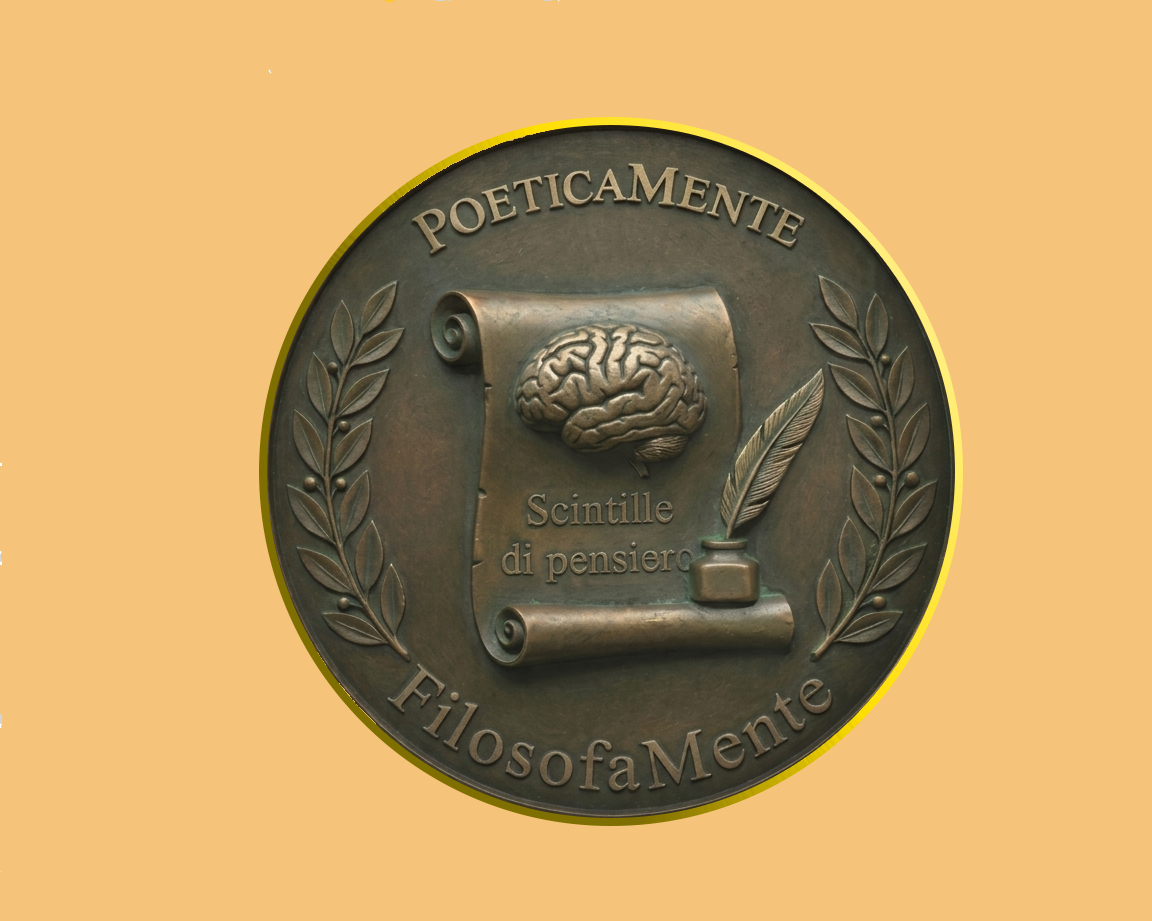
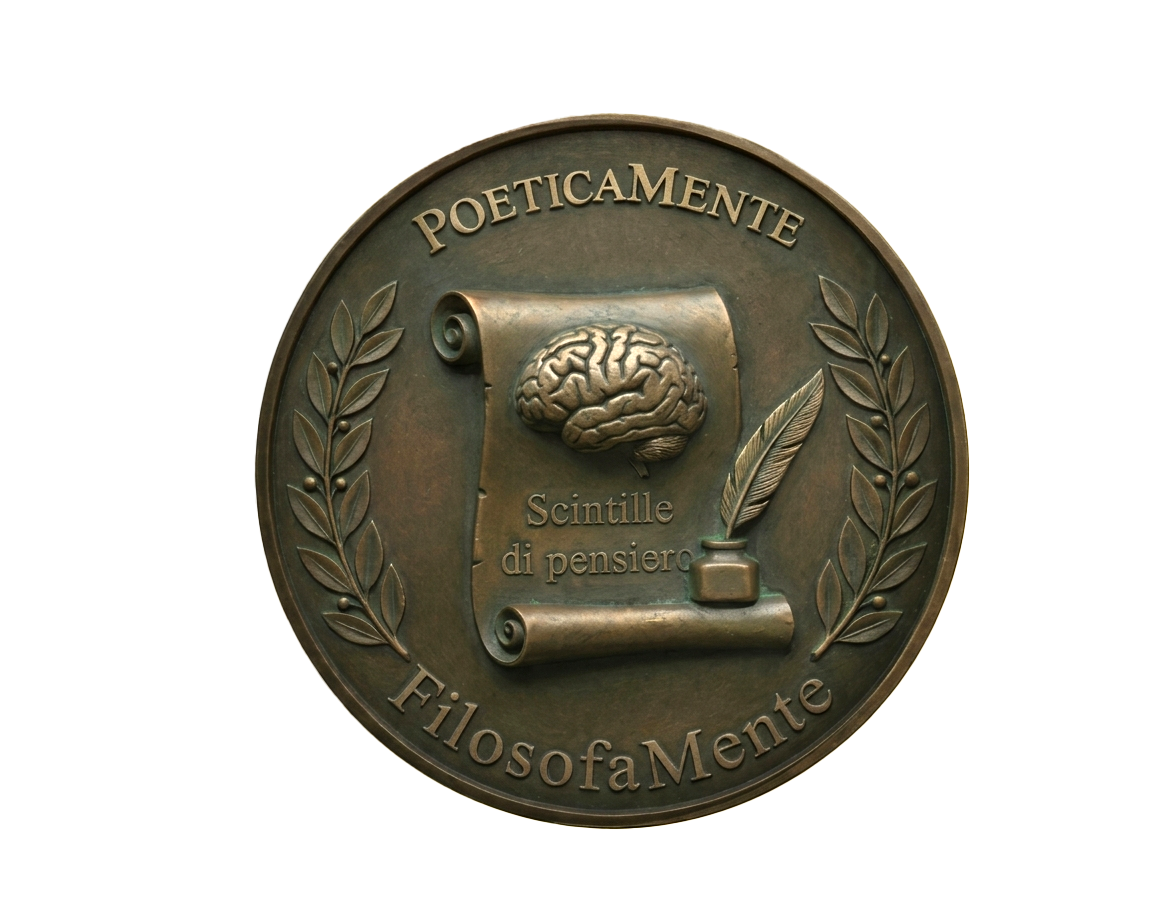
fix: nuove immagini medaglione Fronte e Retro, script video aggiornato

diff --git a/Medaglione_Pro.py b/Medaglione_Pro.py
@@ -2,107 +2,184 @@ import numpy as np
 import cv2
 import os
 import sys
-import time
+
 # La nuova sintassi per MoviePy 2.x
 from moviepy import VideoFileClip, AudioFileClip
 
-# === CONFIGURAZIONE ORIGINALE ===
+# === CONFIGURAZIONE ===
 ASSETS_DIR = "assets"
-image_fronte_path = os.path.join(ASSETS_DIR, "Fronte.png") 
-image_retro_path = os.path.join(ASSETS_DIR, "Retro_3d.png")
-audio_file = os.path.join(ASSETS_DIR, "musica_colossal.mp3")
-output_video = os.path.join(ASSETS_DIR, "Medaglia_v2.mp4")
-temp_video_avi = "temp_render.avi"
+image_fronte_path = os.path.join(ASSETS_DIR, "Fronte.png")
+image_retro_path  = os.path.join(ASSETS_DIR, "Retro.png")
+audio_file        = os.path.join(ASSETS_DIR, "musica_colossal.mp3")
+output_video      = os.path.join(ASSETS_DIR, "Medaglia_v2.mp4")
+temp_video_avi    = "temp_render.avi"
 
 width, height = 1920, 1080
-fps = 30
-duration = 20  # Video più rapido e dinamico
-
-total_frames = fps * duration
+fps           = 30
+duration      = 20          # secondi
+total_frames  = fps * duration
 
 if os.path.exists(output_video):
     os.remove(output_video)
 
+
+# ─────────────────────────────────────────
+# RIMOZIONE SFONDO (nero o trasparente)
+# ─────────────────────────────────────────
+def remove_background(img_bgra):
+    """
+    Rende trasparenti i pixel di sfondo.
+    Gestisce sia sfondo nero (Fronte) sia sfondo già trasparente (Retro).
+    """
+    if img_bgra.shape[2] == 4:
+        # Ha già canale alpha: usa flood-fill sui bordi per pulire residui
+        alpha = img_bgra[:, :, 3].copy()
+        h, w  = alpha.shape
+
+        # Maschera flood-fill dai bordi
+        mask = np.zeros((h + 2, w + 2), np.uint8)
+        alpha_copy = alpha.copy()
+        cv2.floodFill(alpha_copy, mask, (0, 0), 0, loDiff=30, upDiff=30)
+        cv2.floodFill(alpha_copy, mask, (w-1, 0), 0, loDiff=30, upDiff=30)
+        cv2.floodFill(alpha_copy, mask, (0, h-1), 0, loDiff=30, upDiff=30)
+        cv2.floodFill(alpha_copy, mask, (w-1, h-1), 0, loDiff=30, upDiff=30)
+        img_bgra[:, :, 3] = alpha_copy
+    else:
+        # Sfondo nero: crea canale alpha basato sulla luminosità
+        gray  = cv2.cvtColor(img_bgra, cv2.COLOR_BGR2GRAY)
+        _, alpha = cv2.threshold(gray, 15, 255, cv2.THRESH_BINARY)
+
+        # Flood-fill dai bordi per non toccare le parti scure del medaglione
+        h, w  = gray.shape
+        mask  = np.zeros((h + 2, w + 2), np.uint8)
+        alpha_fill = alpha.copy()
+        cv2.floodFill(alpha_fill, mask, (0, 0),     0, loDiff=200, upDiff=200)
+        cv2.floodFill(alpha_fill, mask, (w-1, 0),   0, loDiff=200, upDiff=200)
+        cv2.floodFill(alpha_fill, mask, (0, h-1),   0, loDiff=200, upDiff=200)
+        cv2.floodFill(alpha_fill, mask, (w-1, h-1), 0, loDiff=200, upDiff=200)
+
+        # Leggero blur sul bordo per antialiasing
+        alpha_fill = cv2.GaussianBlur(alpha_fill, (3, 3), 0)
+        img_bgra   = cv2.cvtColor(img_bgra, cv2.COLOR_BGR2BGRA)
+        img_bgra[:, :, 3] = alpha_fill
+
+    return img_bgra
+
+
+# ─────────────────────────────────────────
+# CARICAMENTO E PREPARAZIONE IMMAGINI
+# ─────────────────────────────────────────
 def prepare_image(path):
     if not os.path.exists(path):
         print(f"❌ Errore: manca {path}")
         sys.exit()
+
     img = cv2.imread(path, cv2.IMREAD_UNCHANGED)
-    # Se PNG ha canale alpha, lo fondiamo su nero per eliminare aloni
-    if img is not None and img.shape[2] == 4:
-        alpha = img[:,:,3] / 255.0
-        for c in range(3):
-            img[:,:,c] = (img[:,:,c] * alpha).astype(np.uint8)
-        img = img[:,:,:3]
-    
-    h, w = img.shape[:2]
-    target_h = int(height * 0.70)
-    ratio = w / h
-    target_w = int(target_h * ratio)
-    return cv2.resize(img, (target_w, target_h), interpolation=cv2.INTER_LANCZOS4), target_w, target_h
+    if img is None:
+        print(f"❌ Impossibile leggere {path}")
+        sys.exit()
+
+    # Assicura 4 canali
+    if img.shape[2] == 3:
+        img = cv2.cvtColor(img, cv2.COLOR_BGR2BGRA)
+
+    img = remove_background(img)
+
+    h, w      = img.shape[:2]
+    target_h  = int(height * 0.78)
+    ratio     = w / h
+    target_w  = int(target_h * ratio)
+    img       = cv2.resize(img, (target_w, target_h), interpolation=cv2.INTER_LANCZOS4)
+    return img, target_w, target_h
+
 
 img_fronte, t_w, t_h = prepare_image(image_fronte_path)
-img_retro, _, _ = prepare_image(image_retro_path)
+img_retro,  _,   _   = prepare_image(image_retro_path)
 
+
+# ─────────────────────────────────────────
+# COMPOSITING: incolla BGRA su frame nero
+# ─────────────────────────────────────────
+def composite(frame, warped_bgra):
+    """Incolla l'immagine con alpha su frame nero."""
+    bgr   = warped_bgra[:, :, :3].astype(np.float32)
+    alpha = warped_bgra[:, :, 3:4].astype(np.float32) / 255.0
+    frame = frame.astype(np.float32)
+    frame = bgr * alpha + frame * (1 - alpha)
+    return frame.astype(np.uint8)
+
+
+# ─────────────────────────────────────────
+# RENDER
+# ─────────────────────────────────────────
 fourcc = cv2.VideoWriter_fourcc(*'MJPG')
-video = cv2.VideoWriter(temp_video_avi, fourcc, fps, (width, height))
+video  = cv2.VideoWriter(temp_video_avi, fourcc, fps, (width, height))
 
-print(f"🚀 Renderizzazione Medaglione PoeticaMente in corso...")
+print("🚀 Renderizzazione Medaglione PoeticaMente in corso...")
 
 for i in range(total_frames):
-    frame = np.zeros((height, width, 3), dtype=np.uint8)
+    frame    = np.zeros((height, width, 3), dtype=np.uint8)   # sfondo nero
     progress = i / total_frames
-    angolo_rad = np.radians(progress * (2 * 360)) # 2 giri completi in 20 secondi
-    
-    cos_a = np.cos(angolo_rad)
+    angolo_rad = np.radians(progress * (2 * 360))             # 2 giri in 20 sec
+
+    cos_a    = np.cos(angolo_rad)
     is_front = cos_a >= 0
-    img_target = img_fronte if is_front else img_retro
-    
-   # === NUOVO CODICE 3D DEFINITIVE: Centratura & Profondità ===
-    w_effettivo = t_w * abs(cos_a)
-    
-    # Ricalcoliamo x_offset per una centratura dinamica perfetta
-    x_offset = (width - w_effettivo) / 2
-    
-    # Innalziamo dist_p per forzare l'illusione dello spessore
-    dist_p = abs(np.sin(angolo_rad)) * 160 
-    
-    src_pts = np.float32([[0, 0], [t_w, 0], [t_w, t_h], [0, t_h]])
-    
-    # y_offset garantisce la centratura verticale nel frame 1080p
-    y_offset = (height - t_h) / 2
-    
+    img_src  = img_fronte if is_front else img_retro
+
+    w_effettivo = max(int(t_w * abs(cos_a)), 1)
+    x_offset    = (width  - w_effettivo) / 2
+    y_offset    = (height - t_h)         / 2
+    dist_p      = abs(np.sin(angolo_rad)) * 140
+
+    src_pts = np.float32([[0,   0  ], [t_w, 0  ], [t_w, t_h], [0,   t_h]])
     dst_pts = np.float32([
-        [x_offset, y_offset + dist_p], 
-        [x_offset + w_effettivo, y_offset - dist_p],
-        [x_offset + w_effettivo, y_offset + t_h + dist_p], 
-        [x_offset, y_offset + t_h - dist_p]
+        [x_offset,              y_offset          + dist_p],
+        [x_offset + w_effettivo, y_offset          - dist_p],
+        [x_offset + w_effettivo, y_offset + t_h   + dist_p],
+        [x_offset,              y_offset + t_h    - dist_p],
     ])
 
     matrix = cv2.getPerspectiveTransform(src_pts, dst_pts)
-    warped = cv2.warpPerspective(img_target, matrix, (width, height), flags=cv2.INTER_LANCZOS4)
+    warped = cv2.warpPerspective(img_src, matrix, (width, height),
+                                  flags=cv2.INTER_LANCZOS4)
+
+    # Compositing con alpha
+    frame = composite(frame, warped)
 
     # Riflesso dorato leggero
-    lx = int((i % 60) / 60 * width * 1.5) - 300
-    light_mask = np.zeros_like(frame)
+    lx         = int((i % 60) / 60 * width * 1.5) - 300
+    light_mask = np.zeros((height, width, 3), dtype=np.uint8)
     cv2.line(light_mask, (lx, 0), (lx + 150, height), (70, 60, 20), 40)
     cv2.GaussianBlur(light_mask, (81, 81), 0, light_mask)
-    
-    final_frame = cv2.addWeighted(warped, 1.0, light_mask, 0.4, 0)
-    video.write(final_frame)
+    frame = cv2.addWeighted(frame, 1.0, light_mask, 0.35, 0)
 
-# IL RILASCIO DEVE STARE FUORI DAL CICLO FOR
+    video.write(frame)
+
+    if i % fps == 0:
+        print(f"  ⏳ {i // fps}/{duration} sec")
+
 video.release()
+print("✅ Frame renderizzati!")
 
+# ─────────────────────────────────────────
+# AUDIO + EXPORT FINALE
+# ─────────────────────────────────────────
 try:
     clip = VideoFileClip(temp_video_avi)
     if os.path.exists(audio_file):
-        audio = AudioFileClip(audio_file).subclip(0, duration)
-        clip = clip.set_audio(audio)
-    clip.write_videofile(output_video, codec="libx264", bitrate="3000k")
+        audio = AudioFileClip(audio_file).subclipped(0, duration)
+        clip  = clip.with_audio(audio)
+        print("🎵 Audio aggiunto!")
+    else:
+        print("⚠  Nessun file audio trovato, video senza musica.")
+
+    clip.write_videofile(output_video, codec="libx264", bitrate="3000k", logger=None)
     clip.close()
-    if os.path.exists(temp_video_avi): 
+
+    if os.path.exists(temp_video_avi):
         os.remove(temp_video_avi)
-    print(f"✅ Video pronto: {output_video}")
+
+    print(f"🎬 Video pronto: {output_video}")
+
 except Exception as e:
     print(f"⚠ Errore finale: {e}")
